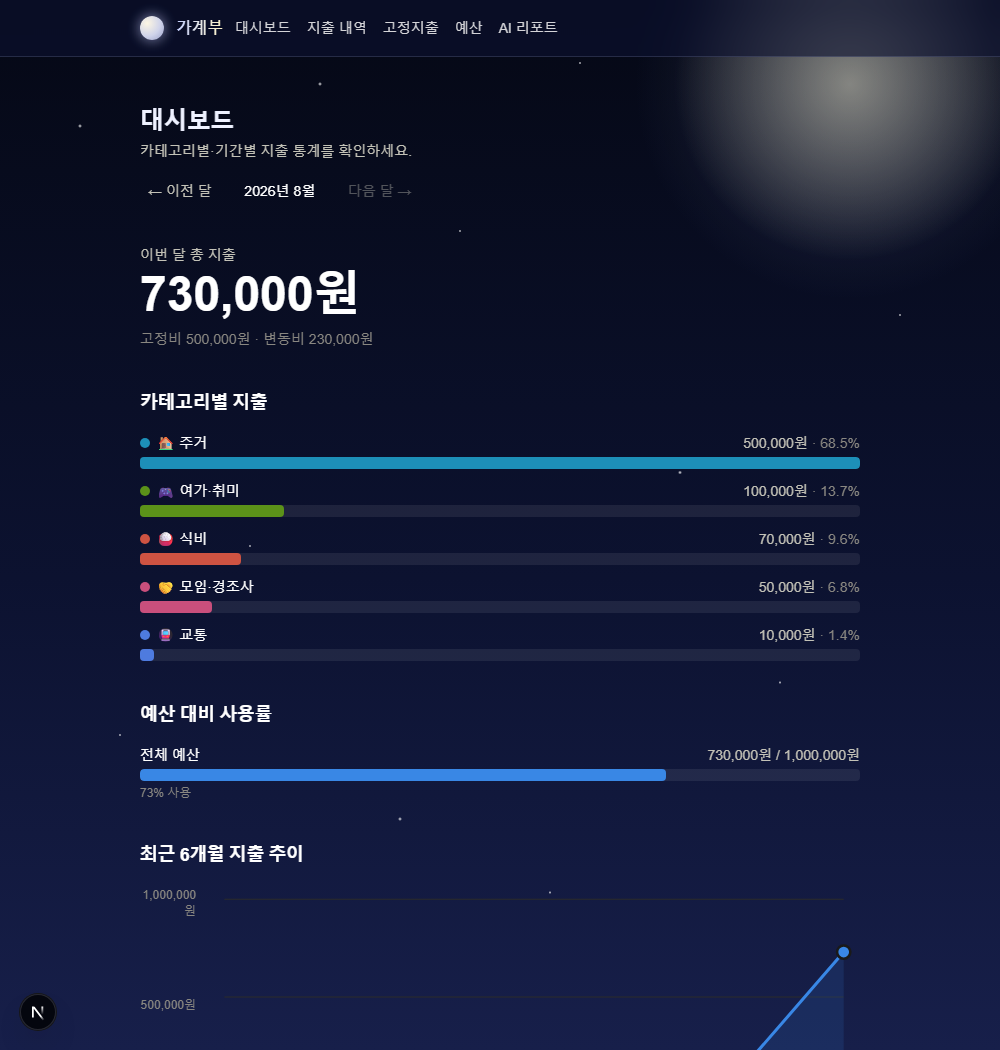
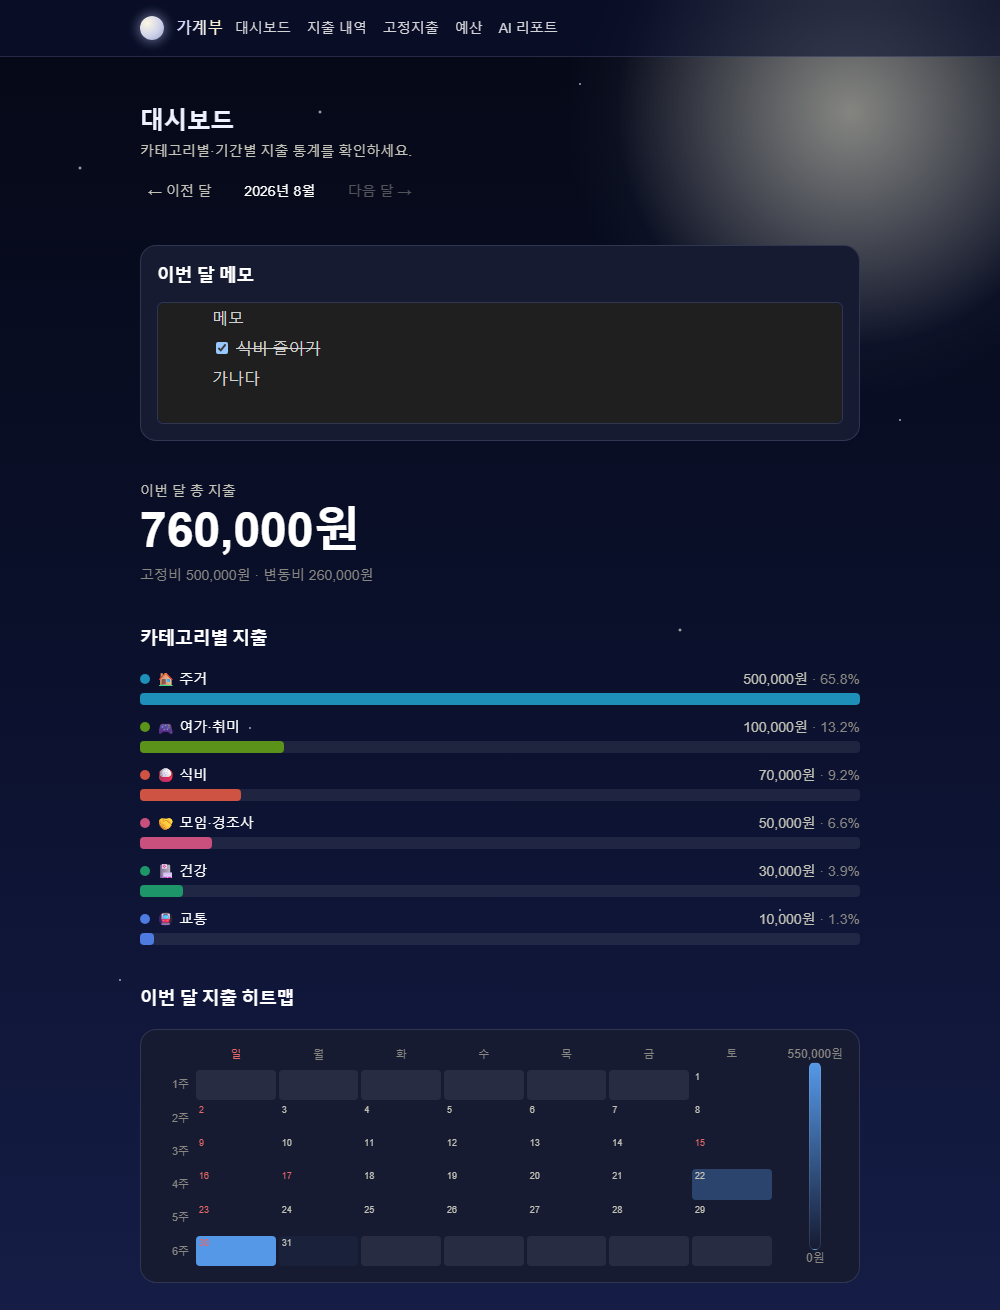
Update README with heatmap and monthly note features
Feature list and tech stack now mention the spending heatmap
(with Korean holiday coloring) and the BlockNote-based monthly
note, both added after the README was last updated. Also retook
the dashboard screenshot so it shows the current layout instead
of a version that predates both features.

diff --git a/README.md b/README.md
@@ -12,7 +12,7 @@
 
 <p>
   <img src="docs/screenshots/home-light.png?v=2" width="49%" alt="홈 화면 (라이트 모드) — 도넛 차트, AI 요약, 달력" />
-  <img src="docs/screenshots/dashboard-dark.png?v=2" width="49%" alt="대시보드 (다크 모드) — 카테고리별 지출, 예산 사용률, 지출 추이" />
+  <img src="docs/screenshots/dashboard-dark.png?v=3" width="49%" alt="대시보드 (다크 모드) — 이번 달 메모, 카테고리별 지출, 지출 히트맵" />
 </p>
 
 ## ✨ 주요 기능
@@ -23,6 +23,8 @@
 - ➕ **지출 추가 모달** — 홈 화면에서 바로 달력으로 날짜를 고르고 지출/카테고리를 추가
 - 📊 **대시보드 통계** — 카테고리별 지출 막대 차트, 예산 대비 사용률, 최근 6개월 지출 추이, 고정비/변동비 분리
 - 🎯 **예산 관리** — 월별 전체 예산과 카테고리별 예산을 설정하고 사용률 확인
+- 🔥 **지출 히트맵** — 이번 달 지출을 요일별 달력 형태로 진하기 표시. 일요일과 한국 공휴일·대체공휴일은 자동 계산해 날짜를 빨간색으로 표시
+- 📝 **이번 달 메모** — 블록 에디터(BlockNote)로 목표·다짐·체크리스트를 자유롭게 기록. 노션처럼 항상 편집 가능한 상태로, 입력을 멈추면 자동 저장
 - 🔁 **고정지출** — 월세·구독료처럼 매달 반복되는 지출을 한 번 등록해두면 매달 지정한 결제일에 지출 내역이 자동으로 기록됨
 - 🏷 **고정 카테고리 12종** — 식비·주거·교통 등 아이콘+색이 정해진 프리셋 카테고리(앱 안에서 추가 불가). 색상은 색맹 시뮬레이션까지 검증해 서로 헷갈리지 않도록 고른 팔레트
 - 🤖 **AI 월간 리포트** — OpenRouter를 통해 무료 LLM 모델을 호출해 이번 달 소비 인사이트를 한국어 마크다운으로 생성
@@ -33,6 +35,8 @@
 - [Next.js](https://nextjs.org) (App Router) + TypeScript + Tailwind CSS
 - [Prisma](https://www.prisma.io) + SQLite (`@prisma/adapter-better-sqlite3`)
 - [OpenRouter](https://openrouter.ai) API를 통한 AI 리포트 생성
+- [BlockNote](https://www.blocknotejs.org)를 이용한 블록 기반 메모 에디터
+- `korean-lunar-calendar`로 직접 계산하는 한국 공휴일·대체공휴일 로직
 
 ## 🚀 시작하기
 
@@ -83,7 +87,7 @@ src/
 │   ├── reports/                 # AI 월간 리포트
 │   ├── api/                    # REST API 라우트
 │   └── _components/            # 홈 화면 전용 컴포넌트 (달력, 드래그&드롭, 도넛 차트, 지출 추가 모달)
-├── lib/                        # 공용 유틸(날짜, 포맷, 고정지출 자동 생성, Prisma 클라이언트, OpenRouter 클라이언트 등)
+├── lib/                        # 공용 유틸(날짜, 포맷, 고정지출 자동 생성, 한국 공휴일 계산, Prisma 클라이언트, OpenRouter 클라이언트 등)
 └── generated/prisma/            # Prisma 클라이언트 (자동 생성)
 ```
 
